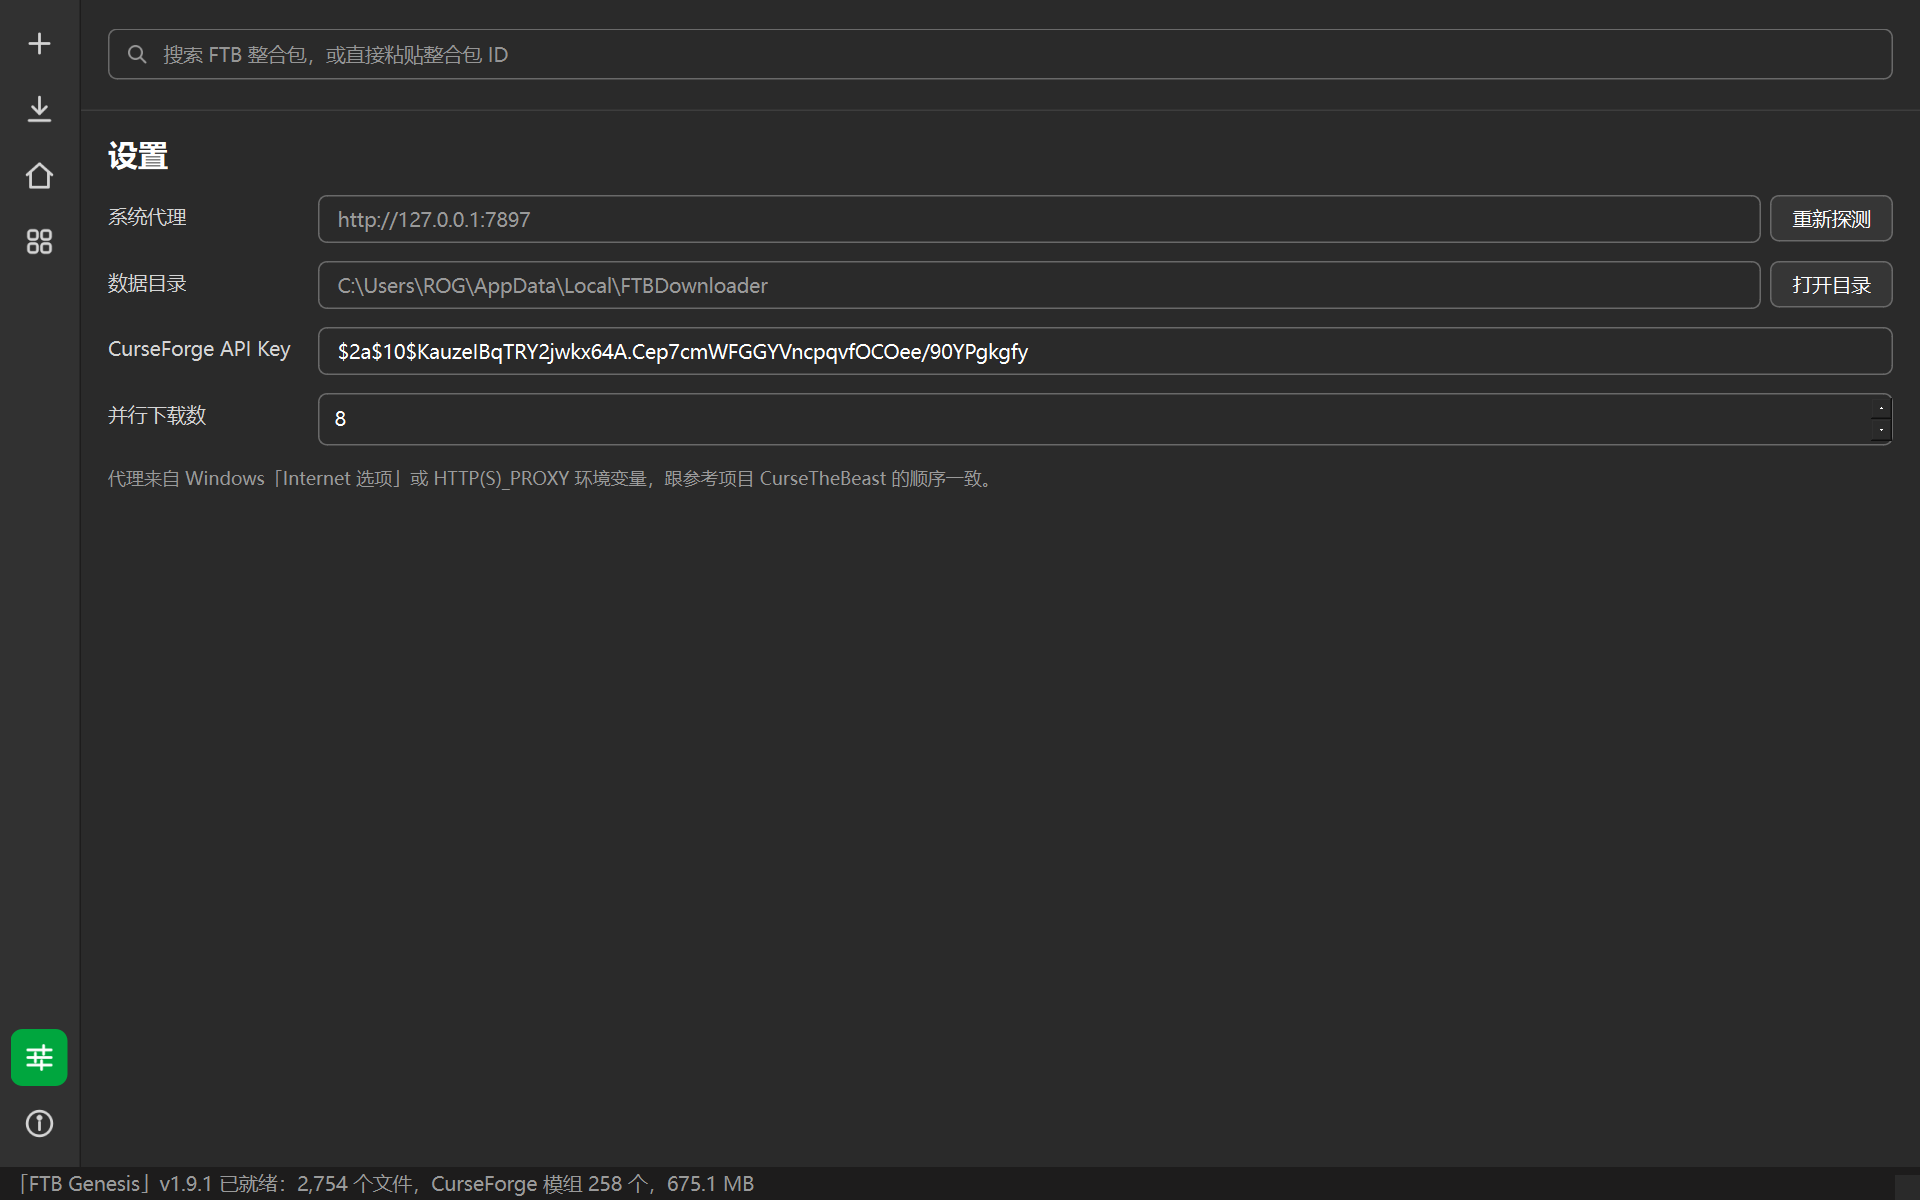
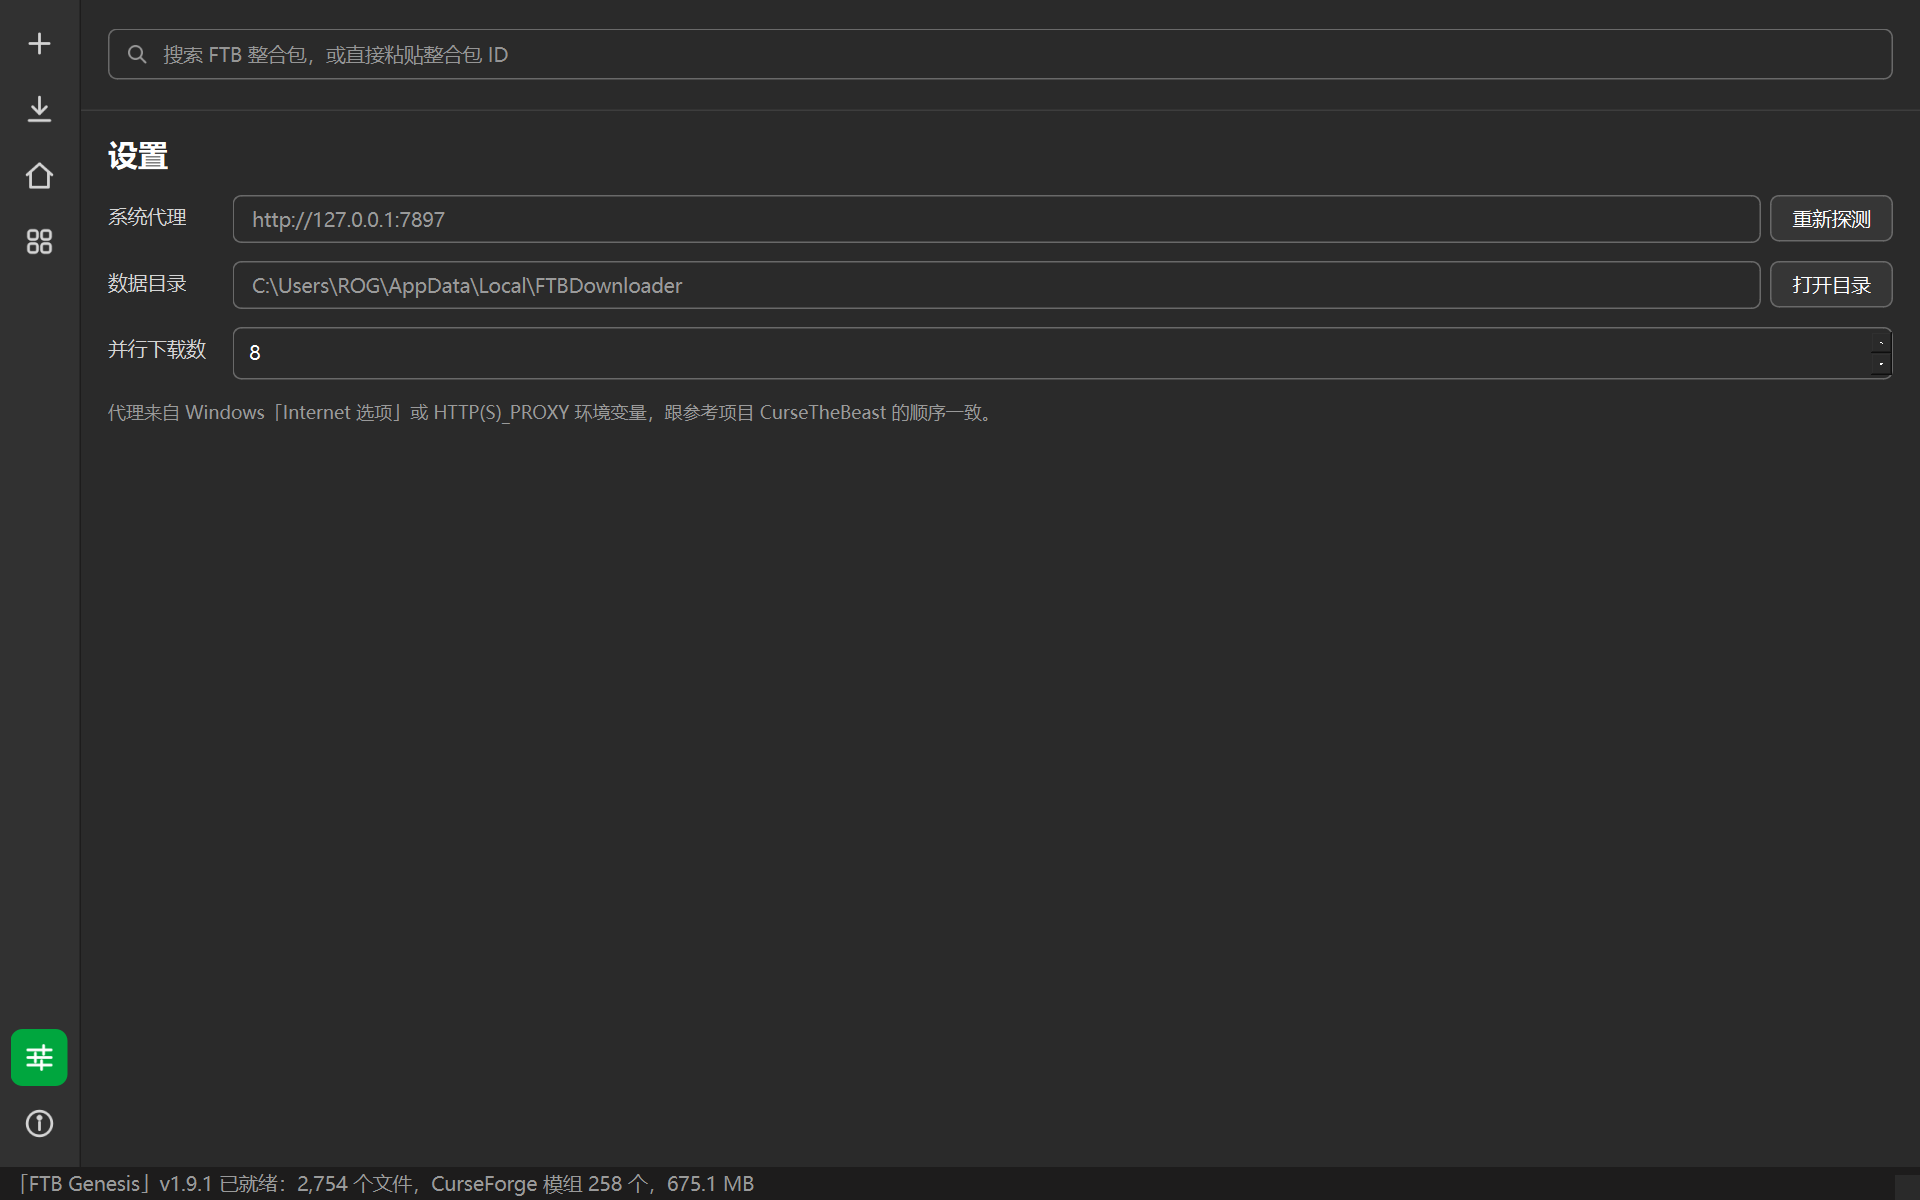
设置页不再显示 CurseForge API Key
这个 key 用户自己申请不到，社区里绝大多数相关工具内置的都是同一个，摆在界面上
只会让人以为要自己填。按反馈从设置页整个去掉，只留在 api/curseforge.py 里发请求用。

- ui/pages/settings.py：删掉 Key 输入框，以及随之无用的 DEFAULT_API_KEY import
- api/curseforge.py：注释改成「不做成可配置项、也不在界面露出」
- docs/usage.md：设置页那节去掉 Key 这一条
- docs/ftb-api-notes.md §4：把这个决定记下来
- docs/guide/09-settings.png 重新生成 —— 原来那张把 key 整个截进去了

顺带修掉截图脚本里一处竞态：准备任务的 state 回调会重建整个卡片列表，
刚重建的卡片还没排版就被量了坐标，导致「界面速览」的 5 号标记退化成整块滚动区。
现在等卡片排完版（宽度 == PackTile.WIDTH）再量。

Changed region(s): [[0.0625, 0.1542, 0.9688, 0.4008]]

diff --git a/scripts/make_guide_screenshots.py b/scripts/make_guide_screenshots.py
@@ -146,9 +146,19 @@ def force_layout(app, window) -> None:
     app.processEvents()
 
 
+def grid_ready(window) -> bool:
+    """卡片是不是已经排完版了。
+
+    准备任务的 state 回调会 _refresh_lists() 把整个列表重建一遍，刚重建出来的卡片
+    还没拿到最终尺寸（Qt 默认 640x480）。排好版之后宽度才会等于 PackTile.WIDTH。
+    """
+    tiles = window.page_library.findChildren(PackTile)
+    return bool(tiles) and all(widget_rect(window, t).width() == PackTile.WIDTH for t in tiles)
+
+
 def first_row_rect(window, widget_type, count: int = 3) -> QRect | None:
     """取某一类控件里第一行的矩形，用来给整排卡片画框。"""
-    widgets = [w for w in window.page_library.findChildren(widget_type) if w.isVisible()]
+    widgets = window.page_library.findChildren(widget_type)
     if not widgets:
         return None
     widgets.sort(key=lambda w: (widget_rect(window, w).y(), widget_rect(window, w).x()))
@@ -281,6 +291,7 @@ def main() -> int:
     )
     settle(app, window, 25)
 
+    wait_for(app, lambda: grid_ready(window), 30, "库里卡片排版完成")
     force_layout(app, window)
 
     group = window.topbar.combo_group

diff --git a/src/ftb_downloader/api/curseforge.py b/src/ftb_downloader/api/curseforge.py
@@ -18,8 +18,9 @@ import requests
 
 CURSEFORGE_API = "https://api.curseforge.com"
 
-#: 参考项目里硬编码的 key（CurseTheBeast/Services/HttpConfigService.cs）。
-#: 实测 2026-09 仍可用；如果哪天 403 了，就在设置里换成自己的 key。
+#: 和参考项目硬编码的是同一个 key（CurseTheBeast/Services/HttpConfigService.cs），实测 2026-09 仍可用。
+#: CurseForge 的接口就是这么设计的：社区里绝大多数相关工具都内置这同一个 key，用户自己也申请不到，
+#: 所以既不做成可配置项，也不在界面上露出来 —— 给用户看只会让人以为要自己填。
 DEFAULT_API_KEY = "$2a$10$KauzeIBqTRY2jwkx64A.Cep7cmWFGGYVncpqvfOCOee/90YPgkgfy"
 
 #: CurseForge 哈希算法编号：1 = SHA1

diff --git a/src/ftb_downloader/ui/pages/settings.py b/src/ftb_downloader/ui/pages/settings.py
@@ -14,7 +14,6 @@ from PySide6.QtWidgets import (
     QWidget,
 )
 
-from ftb_downloader.api.curseforge import DEFAULT_API_KEY
 from ftb_downloader.net import system_proxy
 from ftb_downloader.services.library import data_dir
 from ftb_downloader.ui.widgets.common import Muted, PageTitle
@@ -56,11 +55,6 @@ class SettingsPage(QWidget):
         dir_row.addWidget(self.edit_dir, 1)
         dir_row.addWidget(button_open)
         form.addRow("数据目录", _wrap(dir_row))
-
-        # CurseForge key
-        self.edit_key = QLineEdit(DEFAULT_API_KEY)
-        self.edit_key.setMinimumWidth(320)
-        form.addRow("CurseForge API Key", self.edit_key)
 
         # 并行下载数（留给下一步的下载器）
         self.spin_threads = QSpinBox()

diff --git a/docs/usage.md b/docs/usage.md
@@ -130,8 +130,6 @@ https://www.feed-the-beast.com/modpacks/134
   改了代理之后点「重新探测」即可，不用重启。
   底部状态栏一直显示当前用的是哪个代理。
 - **数据目录**：库文件的位置，点「打开目录」直接跳过去。
-- **CurseForge API Key**：内置了一个公用 Key。CurseForge 的接口就是这么设计的，
-  绝大多数相关工具都内置同一个，**正常使用不需要改**。
 - **并行下载数**：给下一步的下载器预留的，现在改它没有效果。
 
 命令行想临时指定代理，用环境变量即可：
